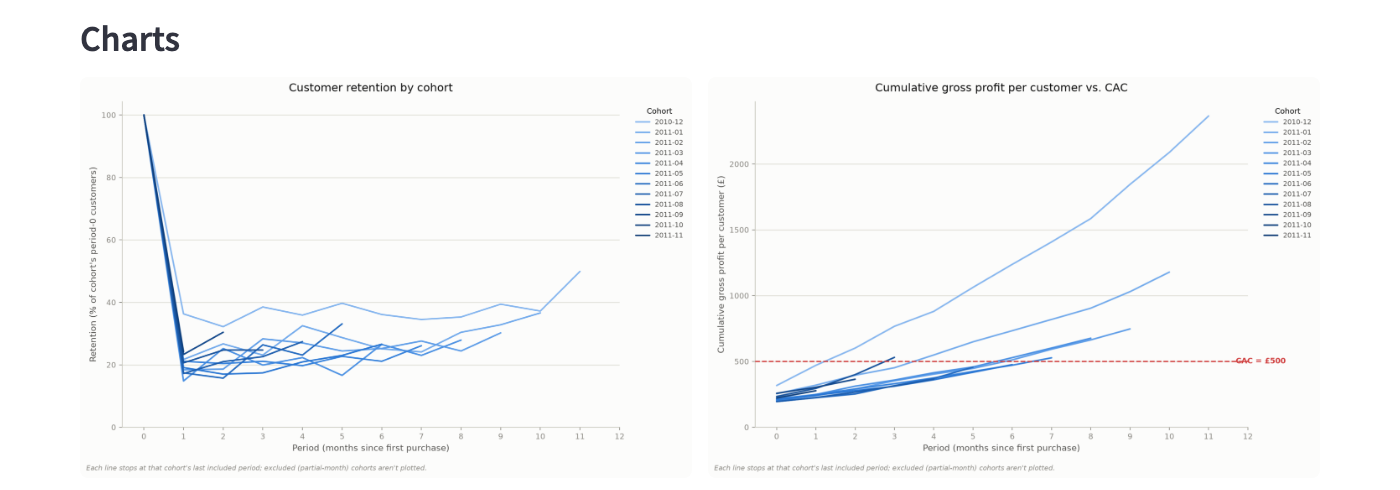
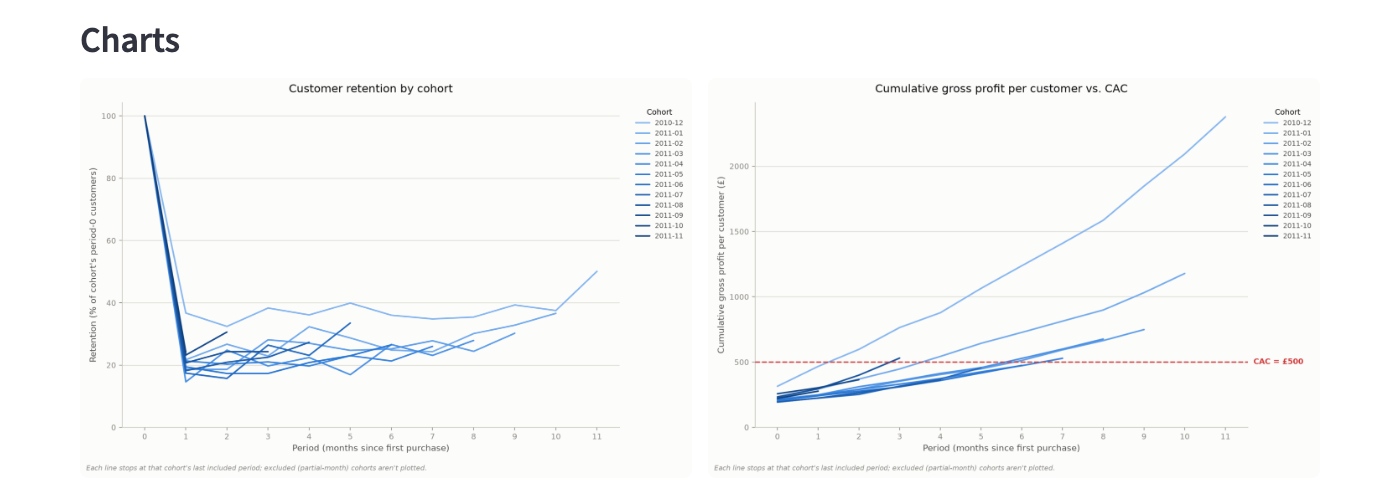
Fix cancellation-matching causality bug and stray period-12 column
- Cancellation netting now processes each (CustomerID, StockCode) group
  in true chronological order with a LIFO stack, so a cancellation can
  only be matched against a purchase that actually happened before it.
  Previously the most-recent-first sort let a cancellation net out a
  later-dated purchase, which isn't possible in reality.
- build_matrices no longer extends the period axis using the excluded
  trailing partial month's raw period indices, which was leaving an
  empty period-12 column in every heatmap/chart.
- Prefill the CAC input with 500 instead of starting blank.
- Trim the README to drop the findings and secrets sections, and add a
  one-line note on how this was built.
- Regenerate the screenshot against the corrected numbers.

diff --git a/cohort_core.py b/cohort_core.py
@@ -116,11 +116,13 @@ def net_out_cancellations(df: pd.DataFrame):
     it reversed; without one, cancellations are just dropped (old
     behaviour) and this is reported via `cancellation_netting_applied`.
 
-    Matches most-recent-purchase-first (LIFO) within each
-    (CustomerID, StockCode) group, consuming whole or partial quantities
-    from prior positive-quantity rows until the cancelled quantity is
-    covered. Any leftover (no matching purchase found at all) is reported
-    as `cancellation_unmatched_quantity`.
+    Processes each (CustomerID, StockCode) group in chronological order
+    and matches each cancellation to its most recent *prior* purchase
+    first (LIFO), falling back to older purchases, consuming whole or
+    partial quantities until the cancelled quantity is covered. A
+    purchase dated after the cancellation is never used as a match. Any
+    leftover (no prior purchase found at all) is reported as
+    `cancellation_unmatched_quantity`.
     """
     stats = {
         "cancellation_rows_removed": int((df["Quantity"] < 0).sum()),
@@ -145,32 +147,30 @@ def net_out_cancellations(df: pd.DataFrame):
 
     for _, idx in groups.items():
         g_qty = qty[idx]
-        neg_local = np.where(g_qty < 0)[0]
-        if neg_local.size == 0:
+        if not (g_qty < 0).any():
             continue
-        new_qty[idx[neg_local]] = 0.0
         g_ts = ts[idx]
-        pos_local = np.where(g_qty > 0)[0]
-        neg_order = neg_local[np.argsort(-g_ts[neg_local].astype("int64"))]
-        if pos_local.size == 0:
-            unmatched_qty += float(-g_qty[neg_local].sum())
-            continue
-        pos_order = pos_local[np.argsort(-g_ts[pos_local].astype("int64"))]
-        remaining = g_qty[pos_order].copy()
-        pos_ptr = 0
-        n_pos = len(pos_order)
-        for li in neg_order:
-            needed = -g_qty[li]
-            while needed > 0 and pos_ptr < n_pos:
-                avail = remaining[pos_ptr]
-                consume = min(avail, needed)
-                remaining[pos_ptr] -= consume
-                needed -= consume
-                if remaining[pos_ptr] == 0:
-                    pos_ptr += 1
-            if needed > 0:
-                unmatched_qty += needed
-        new_qty[idx[pos_order]] = remaining
+        time_order = np.argsort(g_ts.astype("int64"), kind="stable")
+        remaining = g_qty.copy()
+
+        stack = []  # local positions with remaining qty > 0, oldest-pushed-first
+        for li in time_order:
+            if g_qty[li] > 0:
+                stack.append(li)
+            elif g_qty[li] < 0:
+                needed = -g_qty[li]
+                while needed > 0 and stack:
+                    top = stack[-1]
+                    consume = min(remaining[top], needed)
+                    remaining[top] -= consume
+                    needed -= consume
+                    if remaining[top] == 0:
+                        stack.pop()
+                if needed > 0:
+                    unmatched_qty += needed
+                remaining[li] = 0.0
+
+        new_qty[idx] = remaining
 
     removed_revenue = float(((qty - new_qty) * unit_price)[qty > 0].sum())
     fully_dropped_positive_rows = int(((qty > 0) & (new_qty == 0)).sum())
@@ -344,7 +344,9 @@ def build_matrices(transactions_df: pd.DataFrame, last_full_month: str):
     """).fetchdf().set_index("CohortMonth")["MaxValidPeriod"]
     con.close()
 
-    all_periods = list(range(0, int(cohort_summary["PeriodIndex"].max()) + 1))
+    max_valid_period = max(int(horizon.max()), 0)
+    max_period = min(int(cohort_summary["PeriodIndex"].max()), max_valid_period)
+    all_periods = list(range(0, max_period + 1))
     cohorts = sorted(horizon.index)
 
     def pivot_masked(value_col):

diff --git a/app.py b/app.py
@@ -105,7 +105,7 @@ gross_margin_pct = st.number_input(
 )
 cumulative_profit = cc.apply_gross_margin(matrices["cumulative_revenue_per_customer"], gross_margin_pct)
 
-cac = st.number_input("Assumed CAC", min_value=0.0, value=0.0, step=10.0,
+cac = st.number_input("Assumed CAC", min_value=0.0, value=500.0, step=10.0,
                        help=f"Customer acquisition cost, in {CCY}.")
 
 payback = cc.payback_periods(cumulative_profit, cac)

diff --git a/README.md b/README.md
@@ -6,45 +6,15 @@ with `CustomerID`, `InvoiceDate`, `Quantity` and `UnitPrice`, enter a CAC
 and a gross margin assumption, and get cohort matrices, retention curves,
 and a payback chart — all downloadable as PNGs/CSV/ZIP.
 
+Built with Claude Code in 6 hours; I specified the analysis, checked the
+outputs and made the methodology calls.
+
 **Try it live:** https://mahinazhar-cohort-tool-app-o7dfwn.streamlit.app
 **Run locally:** see [Running locally](#running-locally) below.
 
 ![Retention and CAC payback charts](app_screenshot.png)
 _Screenshot: the app's retention-curve and CAC-payback charts, run against
 the sample Online Retail dataset with a £500 CAC and 50% gross margin._
-
-## Three findings from the sample dataset
-
-Running the app against the bundled UCI Online Retail dataset (Dec 2010 –
-Dec 2011, UK-based online gift retailer) surfaces three things worth
-knowing before trusting a naive cohort analysis:
-
-1. **Cancellations quietly inflate revenue if you don't net them against
-   the sale they reverse.** Simply dropping negative-quantity rows (the
-   obvious first fix) leaves the original purchase fully counted while its
-   return disappears. Matching each cancellation back to the purchase(s)
-   of the same product by the same customer removes a further **£542,941**
-   of revenue (about 6% of gross) that a naive "just drop the negatives"
-   cleaning step would have left in. ~21,400 returned units had no
-   matching purchase in the data at all (pre-existing stock, gifts, or a
-   return for a purchase outside the observed window).
-
-2. **Retention falls off a cliff after month 1, then plateaus — with a
-   seasonal bump.** The founding Dec-2010 cohort drops from 100% to ~36%
-   retention in a single month, then holds in the low-to-high 30s for most
-   of the year — before jumping to ~50% in month 11 (a November
-   pre-Christmas repeat-purchase spike, consistent with this being a gift
-   retailer). The steep initial drop, not the plateau, is where most of
-   the churn actually happens.
-
-3. **CAC payback is highly cohort-dependent, and recency matters.** At an
-   illustrative £500 CAC and 50% gross margin, the founding cohort pays
-   back in 2 months and most cohorts through April 2011 pay back within
-   7 months — but cohorts acquired from May 2011 onward mostly fail to pay
-   back within the observed window. That's partly a real signal (later
-   cohorts may simply be lower-value) and partly an artifact of having
-   less time to observe them before the dataset ends — a reminder to read
-   payback figures for your most recent cohorts with caution.
 
 ## How it works
 
@@ -56,9 +26,11 @@ step:
    excludes).
 3. Drop exact duplicate rows.
 4. **Net cancellations against the purchases they reverse** (needs a
-   `StockCode` column — matches each return to the customer's most recent
-   prior purchase of the same product, consuming partial quantities where
-   needed; without `StockCode`, cancellations are just dropped).
+   `StockCode` column — matches each return, in chronological order, to
+   the customer's most recent *prior* purchase of the same product,
+   consuming partial quantities where needed; a purchase dated after the
+   cancellation is never used as a match. Without `StockCode`,
+   cancellations are just dropped).
 5. Drop rows with `UnitPrice <= 0`.
 
 Each surviving customer gets a cohort = the month of their first
@@ -83,12 +55,6 @@ streamlit run app.py
 
 Click **"Use sample dataset"** to try it against the bundled
 `Online_Retail.csv` without uploading anything.
-
-## Secrets
-
-This app doesn't currently call any external API and has no secrets to
-configure. If that changes, put credentials in `.streamlit/secrets.toml`
-(already gitignored) rather than hardcoding them.
 
 ## Data
 
